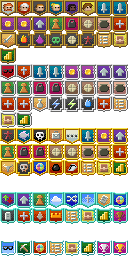
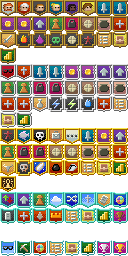
Seed of light victory badge and Malkuth victory badge
- Victory badge renamed 빛의 씨앗 발아, its amulet icon redrawn as a
  glowing seed
- New gold badge 똑바로 설 수 있는 의지 for winning as Malkuth, with a
  sun and pillar emblem on a dark gold-framed badge

Claude-Session: https://claude.ai/code/session_01CLpxJCP8pRQaCKBaMF3uRd

Changed region(s): [[0.0, 0.6875, 0.125, 0.75], [0.2812, 0.625, 0.3438, 0.6875]]

diff --git a/core/src/main/java/com/shatteredpixel/shatteredpixeldungeon/Badges.java b/core/src/main/java/com/shatteredpixel/shatteredpixeldungeon/Badges.java
@@ -162,6 +162,7 @@ public class Badges {
 		RESEARCHER_3                ( 85, BadgeType.JOURNAL ),
 		GAMES_PLAYED_3              ( 86, BadgeType.GLOBAL ),
 		HIGH_SCORE_3                ( 87 ),
+		WILL_TO_STAND_TALL          ( 88 ), //victory as Malkuth
 
 		//platinum
 		MANY_BUFFS                  ( 96 ),
@@ -1026,6 +1027,13 @@ public class Badges {
 				&& Dungeon.hero.subClass != null
 				&& Dungeon.hero.armorAbility != null){
 			badge = Badge.VICTORY_RANDOM;
+			local.add( badge );
+			displayBadge( badge );
+		}
+
+		//the will to stand tall: obtain the seed of light as Malkuth
+		if (Dungeon.hero.heroClass == HeroClass.MALKUTH){
+			badge = Badge.WILL_TO_STAND_TALL;
 			local.add( badge );
 			displayBadge( badge );
 		}
